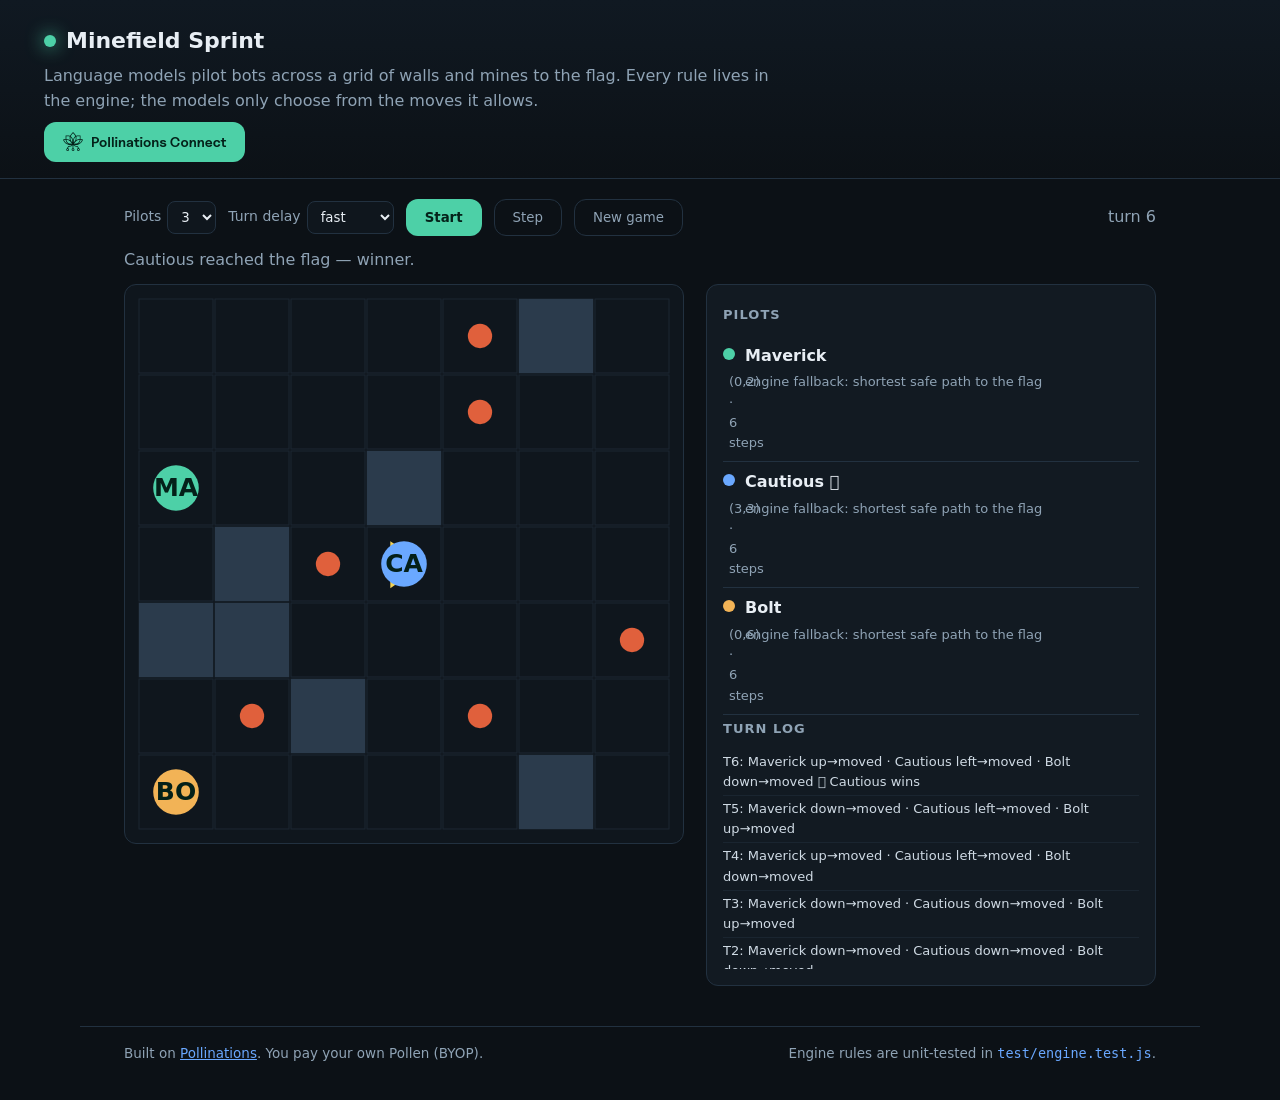
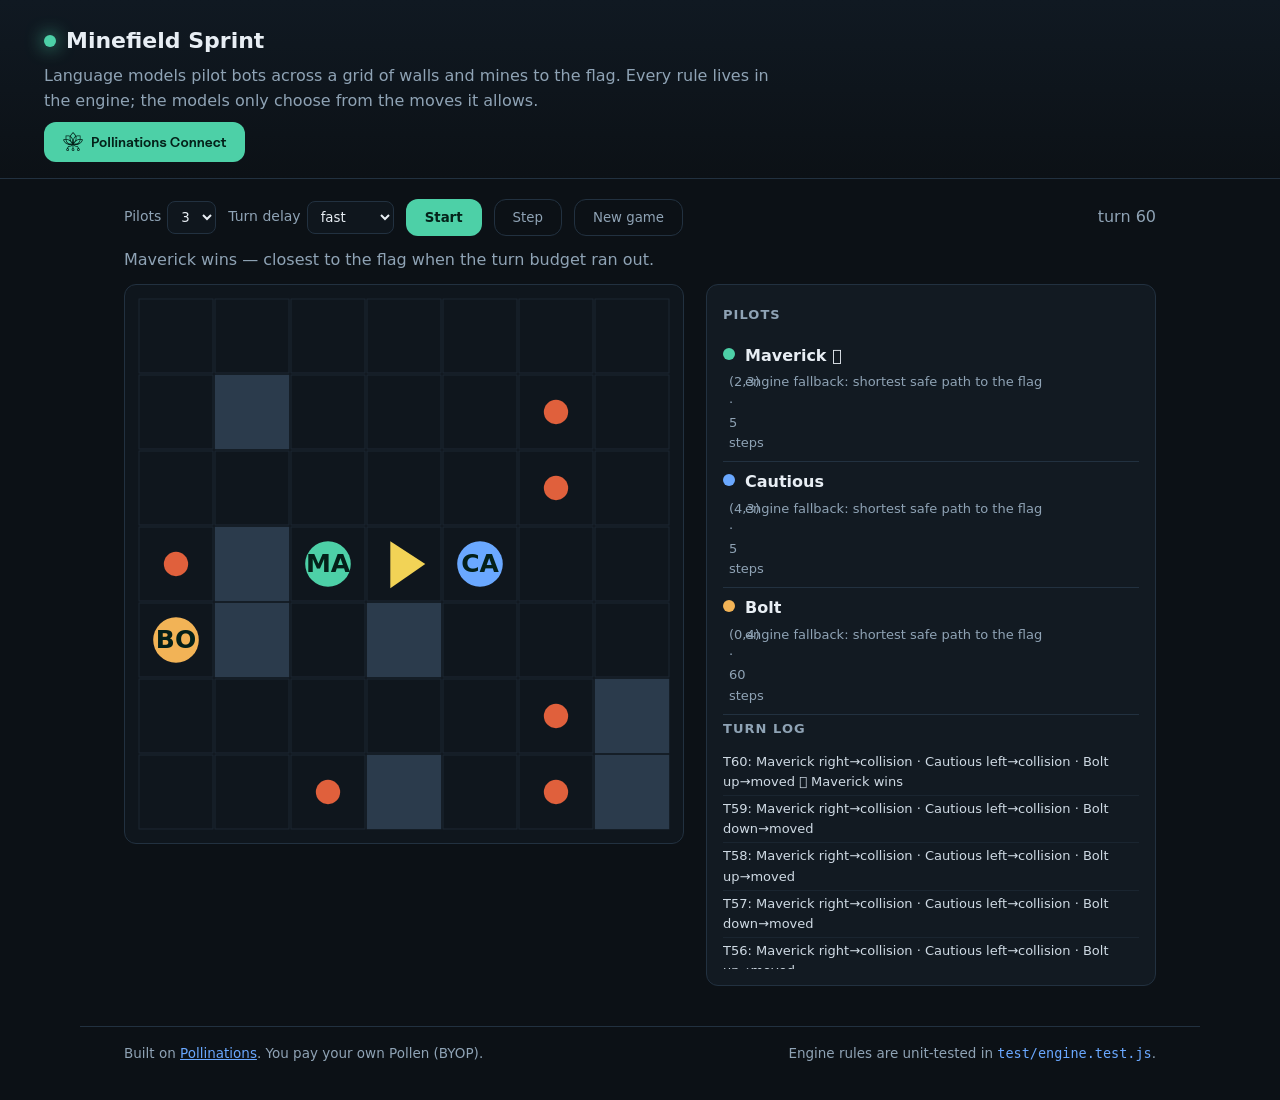
Add a turn budget with an in-code tiebreak, and have the heuristic dodge occupied cells

diff --git a/js/engine.js b/js/engine.js
@@ -71,6 +71,8 @@
             walls,
             mines,
             turn: 0,
+            maxTurns: opts.maxTurns != null ? opts.maxTurns : 60,
+            decidedBy: null,
             winner: null,
             bots: bots.map((b, i) => ({
                 id: b.id,
@@ -168,9 +170,27 @@
         }
 
         const onFlag = state.bots.find((b) => b.alive && b.x === state.flag.x && b.y === state.flag.y);
-        if (onFlag) state.winner = onFlag.id;
+        if (onFlag) {
+            state.winner = onFlag.id;
+            state.decidedBy = "flag";
+        }
         state.turn++;
         state.log.push({ turn: state.turn, events });
+
+        // A model-driven game may never reach the flag on its own, so the engine ends it
+        // on a turn budget and breaks the tie in code: closest bot to the flag, then
+        // fewest steps. The verdict stays measurable, not model-declared.
+        if (!state.winner && state.turn >= state.maxTurns) {
+            const alive = aliveBots(state).slice().sort((a, b) => {
+                const da = Math.abs(a.x - state.flag.x) + Math.abs(a.y - state.flag.y);
+                const db = Math.abs(b.x - state.flag.x) + Math.abs(b.y - state.flag.y);
+                return da - db || a.steps - b.steps;
+            });
+            if (alive.length) {
+                state.winner = alive[0].id;
+                state.decidedBy = "closest";
+            }
+        }
         return events;
     }
 

diff --git a/js/app.js b/js/app.js
@@ -96,7 +96,12 @@
         if (Engine.isOver(state)) {
             running = false;
             el("start").textContent = "Start";
-            setStatus(state.winner ? nameOf(state.winner) + " reached the flag — winner." : "All pilots destroyed.");
+            if (state.winner) {
+                const how = state.decidedBy === "closest" ? "closest to the flag when the turn budget ran out" : "reached the flag";
+                setStatus(nameOf(state.winner) + " wins — " + how + ".");
+            } else {
+                setStatus("All pilots destroyed.");
+            }
         }
     }
 
@@ -112,7 +117,10 @@
         if (!state || Engine.isOver(state)) newGame();
         running = !running;
         el("start").textContent = running ? "Pause" : "Start";
-        if (running) loop();
+        if (running) {
+            setStatus(key() ? "Models are playing." : "Playing with the engine's pathfinding (no key connected).");
+            loop();
+        }
     });
     el("step").addEventListener("click", () => {
         if (!state || Engine.isOver(state)) newGame();

diff --git a/js/ai.js b/js/ai.js
@@ -41,8 +41,11 @@
             const nx = bot.x + dx;
             const ny = bot.y + dy;
             const minePenalty = state.mines.has(nx + "," + ny) ? 1000 : 0;
+            // Aiming at a cell another live bot already stands on risks a head-on
+            // collision (both stay), so treat it as expensive but not fatal.
+            const occupied = Engine.aliveBots(state).some((o) => o.id !== bot.id && o.x === nx && o.y === ny);
             const dist = Math.abs(nx - state.flag.x) + Math.abs(ny - state.flag.y);
-            const score = dist + minePenalty;
+            const score = dist + minePenalty + (occupied ? 500 : 0);
             if (score < bestScore) {
                 bestScore = score;
                 best = m;

diff --git a/test/engine.test.js b/test/engine.test.js
@@ -90,3 +90,19 @@ test("the game is over when no bot is alive", () => {
     g.bots[1].alive = false;
     assert.equal(Engine.isOver(g), true);
 });
+test("the turn budget ends the game and breaks the tie in code", () => {
+    const g = make({ maxTurns: 2 });
+    g.walls.clear();
+    g.mines.clear();
+    g.bots[0].x = 0;
+    g.bots[0].y = 0;
+    g.bots[1].x = 0;
+    g.bots[1].y = 1;
+    g.flag.x = 4;
+    g.flag.y = 4;
+    Engine.applyMoves(g, { a: "down", b: "down" });
+    Engine.applyMoves(g, { a: "down", b: "down" });
+    assert.equal(Engine.isOver(g), true);
+    assert.equal(g.decidedBy, "closest");
+    assert.equal(g.winner, "b"); // b started closer to the flag
+});

diff --git a/test/e2e.py b/test/e2e.py
@@ -63,9 +63,8 @@ def main():
             page.click("#start")
             # wait for the engine to decide a winner
             page.wait_for_function(
-                "() => document.getElementById('status').textContent.includes('winner') || "
-                "document.getElementById('status').textContent.includes('All pilots')",
-                timeout=30000,
+                "() => { const s=document.getElementById('status').textContent; return s.includes('wins') || s.includes('All pilots'); }",
+                timeout=90000,
             )
             status = page.inner_text("#status")
             turns = page.inner_text("#turn")
